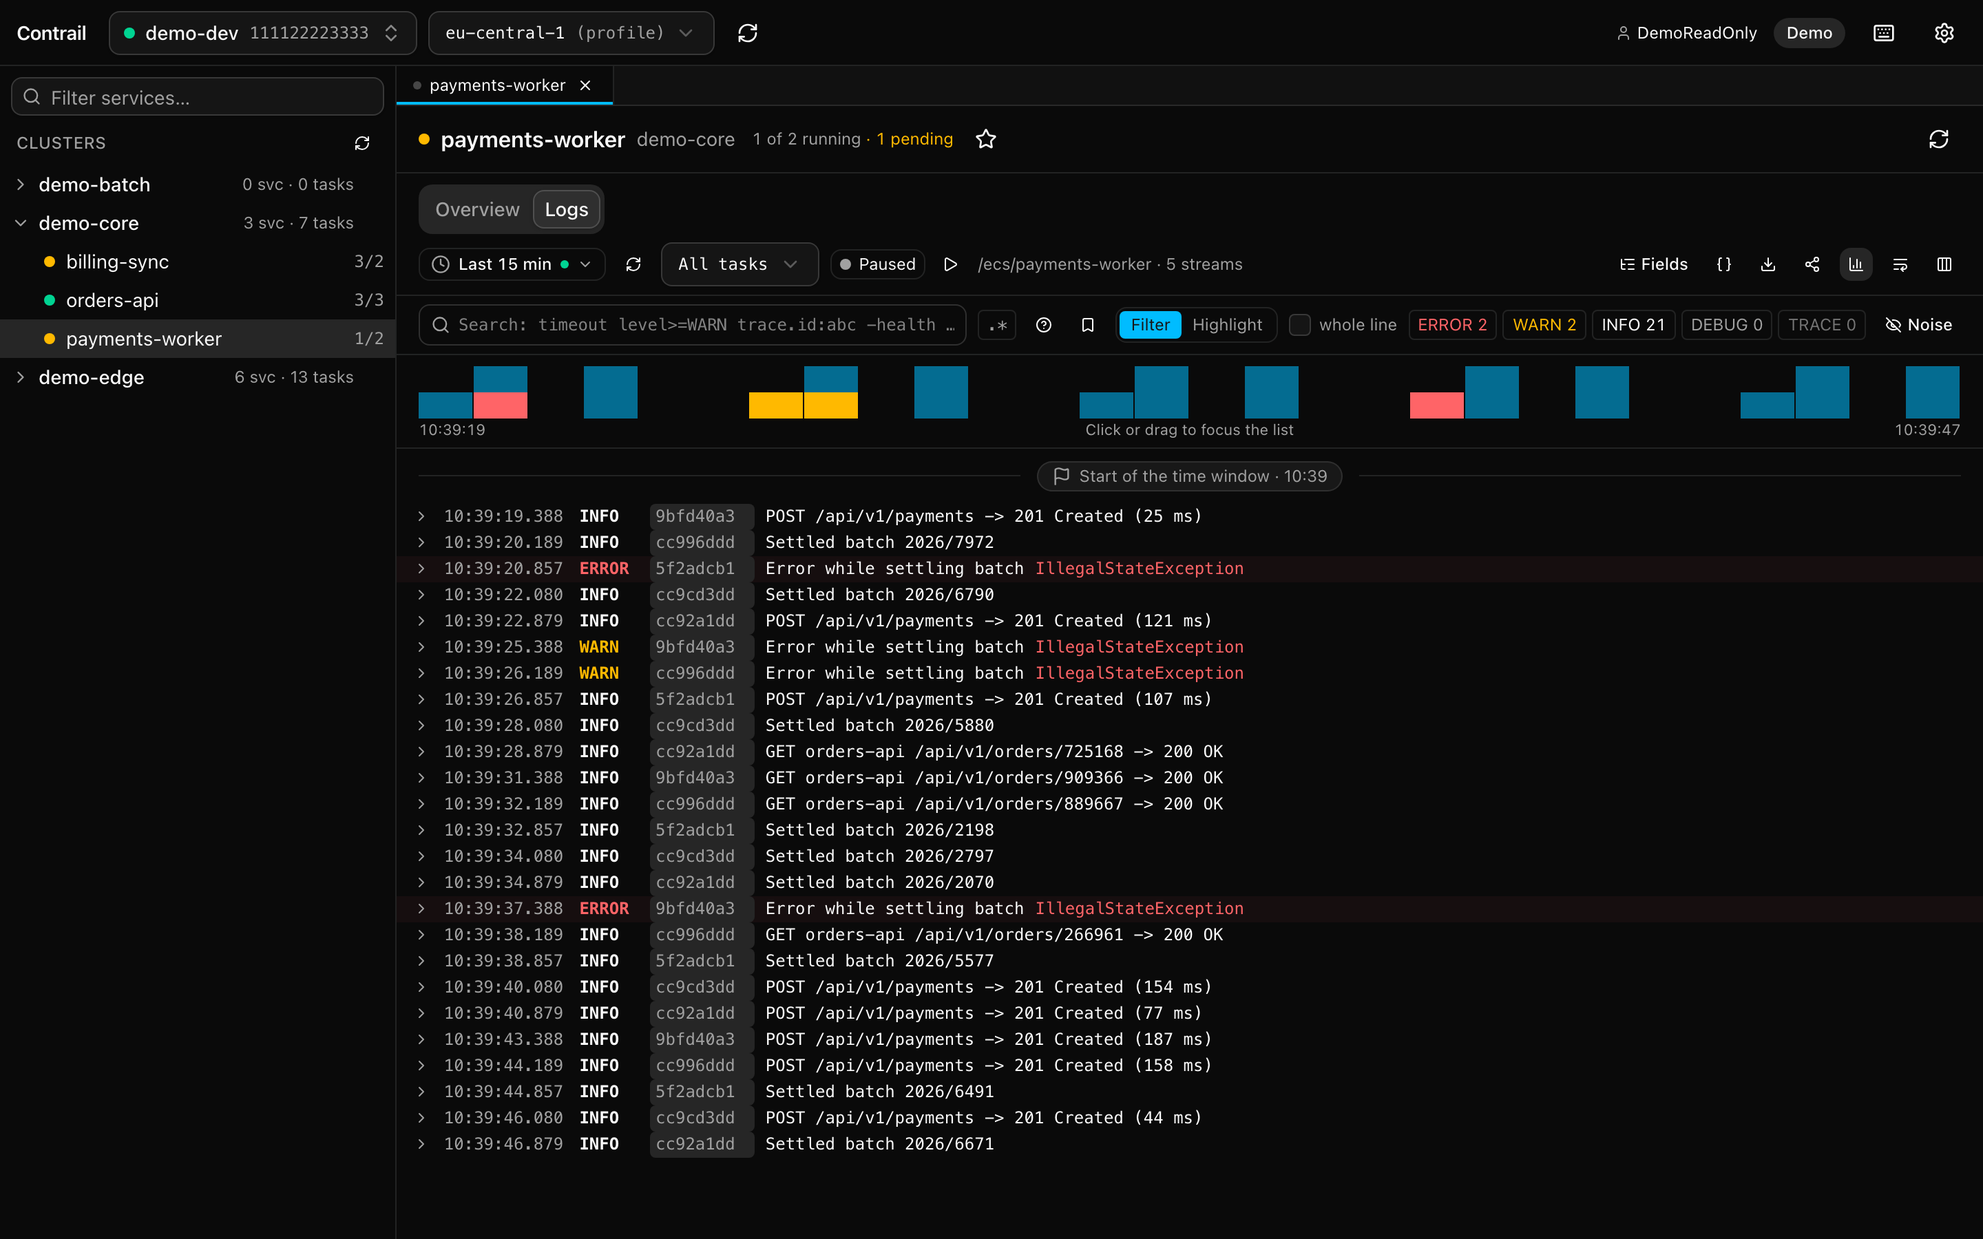
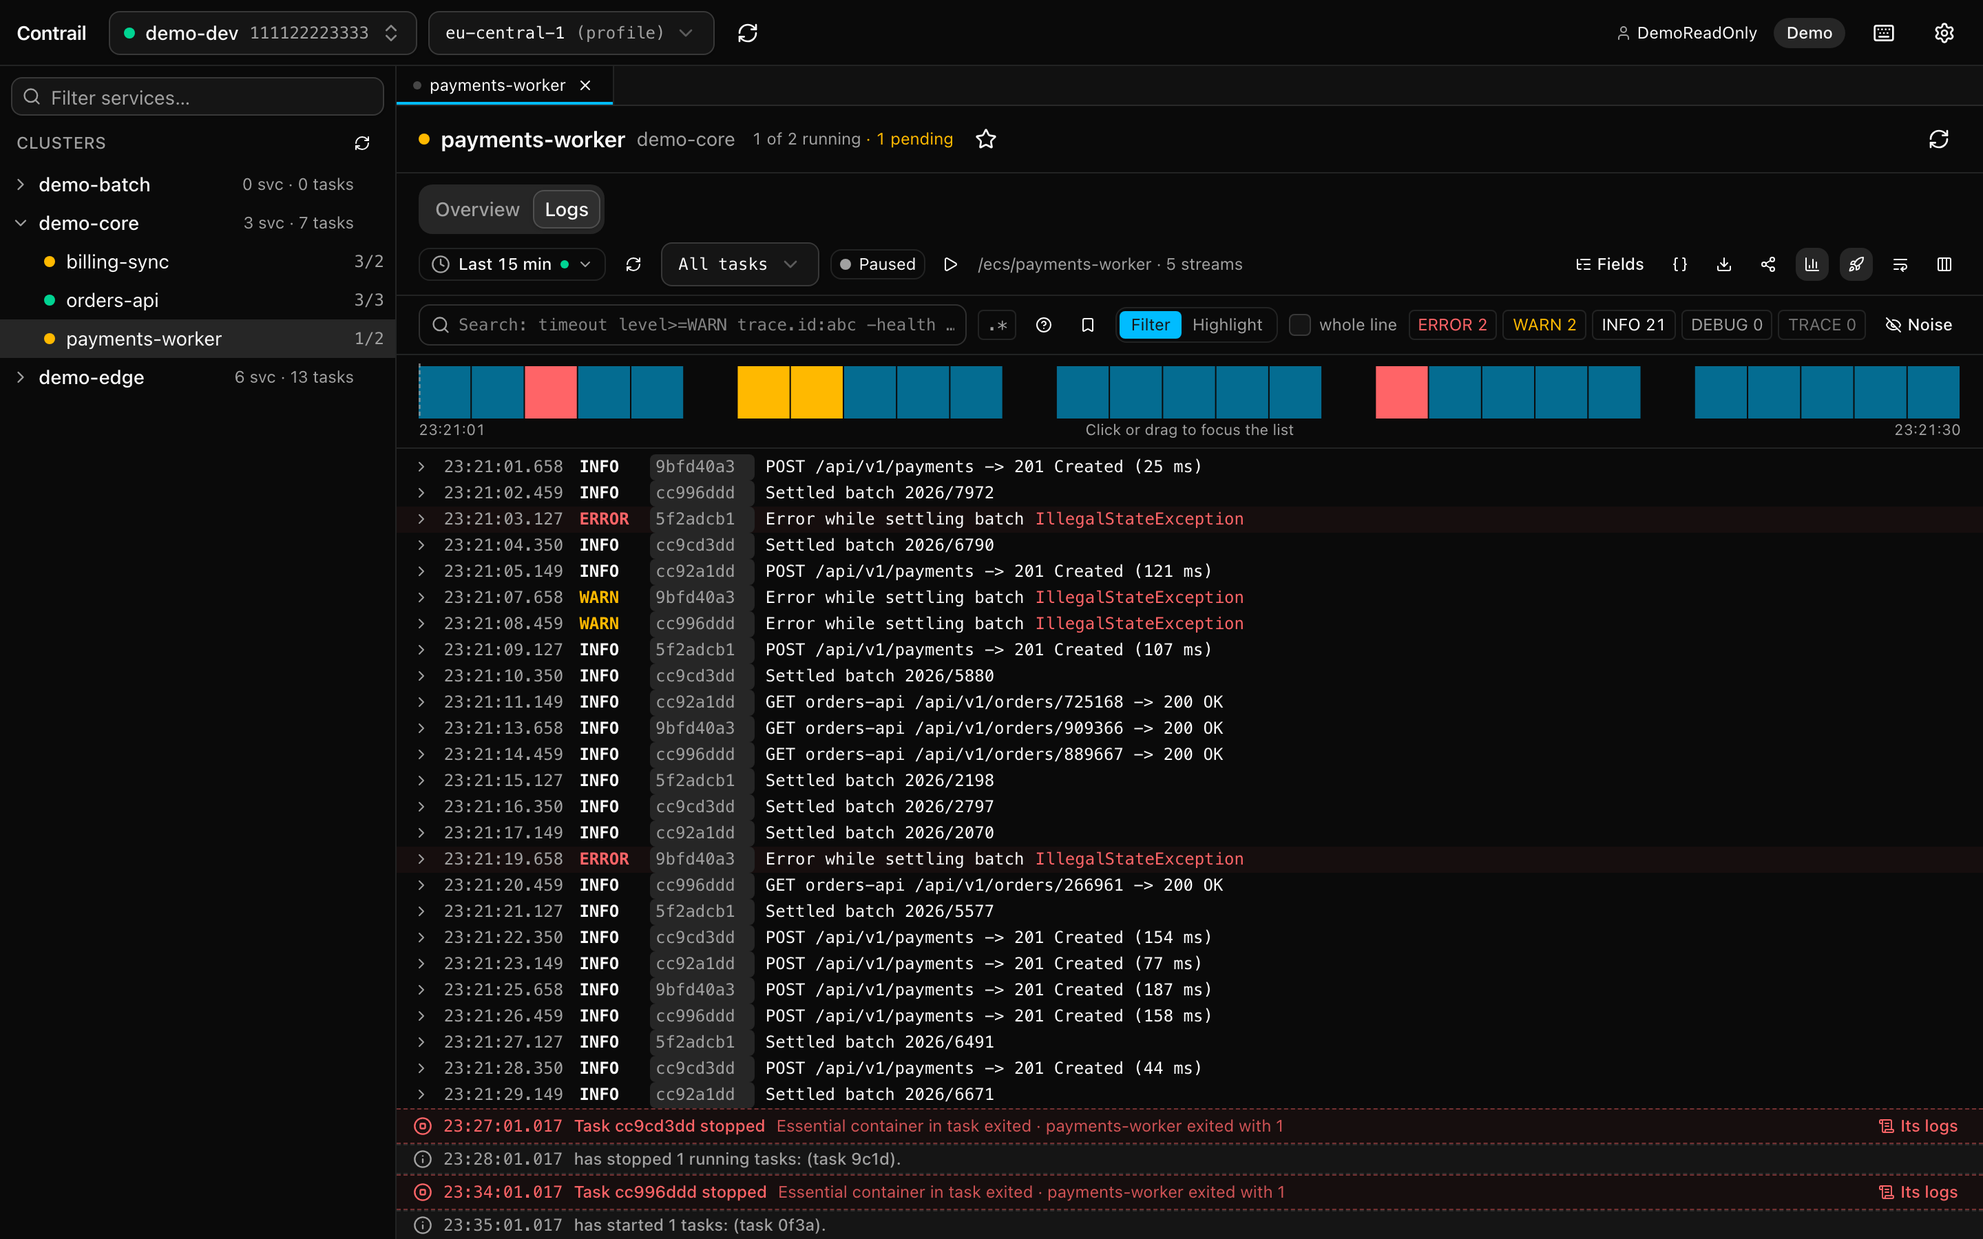
feat(logs): show deployments, stopped tasks and service events between the lines
M17: from the overview's data (no extra AWS calls), as lines between the
log lines at their time and on the timeline. A stopped task's line shows
its reason and exit codes and opens its logs; steady-state events are
left out; a toolbar toggle (a saved setting) hides them. Site screenshots
refreshed.

diff --git a/app/ui/src/components/logs/TimelineChart.tsx b/app/ui/src/components/logs/TimelineChart.tsx
@@ -8,6 +8,8 @@ import {
   utcOffsetMinutes,
 } from "@/lib/timeline";
 import { Skeleton } from "@/components/ui/skeleton";
+import { useServiceMarkers } from "./useServiceMarkers";
+import { markersBetween } from "@/lib/markers";
 import { useLogs } from "@/stores/logs";
 import { usePrefs } from "@/stores/prefs";
 
@@ -41,6 +43,7 @@ export function TimelineChart({ viewId }: { viewId: number }) {
   const revision = useLogs((s) => s.searchRevision);
   const focus = useLogs((s) => s.focus);
   const setFocus = useLogs((s) => s.setFocus);
+  const markers = useServiceMarkers();
   const timeZone = usePrefs((s) => s.prefs.settings.timeZone);
   const box = useRef<HTMLDivElement>(null);
   const [width, setWidth] = useState(0);
@@ -89,6 +92,21 @@ export function TimelineChart({ viewId }: { viewId: number }) {
   const spansDays = timeline ? count * timeline.bucketMs >= 86_400_000 : false;
   const hovered = hover !== null && timeline ? timeline.buckets[hover] : undefined;
   const focused = focus && timeline && count > 0 ? rangePixels(timeline, focus, width) : null;
+  // Where the chart starts and ends, for the markers' positions.
+  const [start, end] =
+    timeline && count > 0
+      ? [bucketRange(timeline, 0)[0], bucketRange(timeline, count - 1)[1]]
+      : [0, 0];
+  const shownMarkers = end > start ? markersBetween(markers, start - 1, end) : [];
+  const markerX = (at: number) => ((at - start) / (end - start)) * width;
+  const hoveredMarkers =
+    hover !== null && timeline
+      ? markersBetween(
+          shownMarkers,
+          bucketRange(timeline, hover)[0] - 1,
+          bucketRange(timeline, hover)[1],
+        )
+      : [];
   const outsideFocus = (i: number) =>
     focused !== null &&
     ((i + 1) * barWidth <= focused.left || i * barWidth >= focused.left + focused.width);
@@ -151,6 +169,24 @@ export function TimelineChart({ viewId }: { viewId: number }) {
               </g>
             );
           })}
+          {shownMarkers.map((m) => (
+            <line
+              key={`${m.kind}-${m.at}-${m.title}`}
+              x1={markerX(m.at)}
+              x2={markerX(m.at)}
+              y1={0}
+              y2={BARS_HEIGHT}
+              strokeWidth={1.5}
+              strokeDasharray="3 2"
+              className={
+                m.failed
+                  ? "stroke-destructive"
+                  : m.kind === "deployment"
+                    ? "stroke-primary"
+                    : "stroke-muted-foreground/70"
+              }
+            />
+          ))}
         </svg>
         {focused && !drag && (
           <div
@@ -183,6 +219,14 @@ export function TimelineChart({ viewId }: { viewId: number }) {
             {STACK.filter(({ key }) => hovered[key] > 0).map(({ key, label }) => (
               <p key={key} className="tabular-nums">
                 {label} {hovered[key].toLocaleString()}
+              </p>
+            ))}
+            {hoveredMarkers.map((m) => (
+              <p
+                key={`${m.kind}-${m.at}-${m.title}`}
+                className={m.failed ? "text-destructive" : "text-primary"}
+              >
+                {m.title}
               </p>
             ))}
           </div>

diff --git a/app/ui/src/components/logs/LogList.tsx b/app/ui/src/components/logs/LogList.tsx
@@ -4,10 +4,13 @@ import { ArrowDownToLineIcon, ArrowUpToLineIcon } from "lucide-react";
 import { cn } from "cn";
 import { Button } from "@/components/ui/button";
 import { isToday } from "@/lib/logs";
+import { markersBetween } from "@/lib/markers";
 import { cachedIndexOf, PAGE_SIZE, type ScrollAnchor, useLogs } from "@/stores/logs";
 import { usePrefs } from "@/stores/prefs";
 import { gridTemplate, useLogColumns } from "./columns";
 import { LogRow } from "./LogRow";
+import { MarkerBanner } from "./MarkerBanner";
+import { useServiceMarkers } from "./useServiceMarkers";
 import { OLDER_MARKER_HEIGHT, OlderMarker } from "./OlderMarker";
 
 /** Rows fetched beyond the visible ones in each direction, so scrolling finds them loaded. */
@@ -45,6 +48,10 @@ export function LogList({
   const timeZone = usePrefs((s) => s.prefs.settings.timeZone);
   // Where the listed events start: the focus, or as far back as events are loaded.
   const from = useLogs((s) => s.focus?.start ?? s.view?.loadedFrom ?? null);
+  // Where they end: the focus, or the window's end. (A service event after it shows up between
+  // the lines once a newer line arrives.)
+  const until = useLogs((s) => s.focus?.end ?? s.view?.to ?? null);
+  const markers = useServiceMarkers();
   const pages = useLogs((s) => s.pages);
   const scrollTarget = useLogs((s) => s.scrollTarget);
   const prepended = useLogs((s) => s.prepended);
@@ -219,6 +226,16 @@ export function LogList({
           {items.map((item) => {
             const index = toData(item.index);
             const event = row(index);
+            // The service's markers between this event and the one before it (oldest first),
+            // and after the newest one.
+            const previous = index === 0 ? from : row(index - 1)?.timestamp;
+            const at = event && Date.parse(event.timestamp);
+            const before = at && previous ? markersBetween(markers, Date.parse(previous), at) : [];
+            const after =
+              at && index === total - 1
+                ? markersBetween(markers, at, until ? Date.parse(until) : Infinity)
+                : [];
+            const [above, below] = newestFirst ? [after, before] : [before, after];
             return (
               <div
                 key={item.key}
@@ -235,6 +252,7 @@ export function LogList({
                   transform: `translateY(${item.start - virtualizer.options.scrollMargin}px)`,
                 }}
               >
+                <MarkerBanner markers={above} />
                 {event ? (
                   <LogRow
                     event={event}
@@ -247,6 +265,7 @@ export function LogList({
                 ) : (
                   <div className="px-3 text-muted-foreground/50">…</div>
                 )}
+                <MarkerBanner markers={below} />
               </div>
             );
           })}

diff --git a/app/ui/src/components/logs/MarkerBanner.tsx b/app/ui/src/components/logs/MarkerBanner.tsx
@@ -1,0 +1,60 @@
+import { CircleStopIcon, InfoIcon, RocketIcon, ScrollTextIcon } from "lucide-react";
+import { cn } from "cn";
+import { Button } from "@/components/ui/button";
+import { formatLogTime } from "@/lib/logs";
+import type { ServiceMarker } from "@/lib/markers";
+import { useLogs } from "@/stores/logs";
+import { usePrefs } from "@/stores/prefs";
+
+const ICON = { deployment: RocketIcon, task: CircleStopIcon, event: InfoIcon } as const;
+
+/**
+ * What happened to the service between two log lines (a deployment, a stopped task, a service
+ * event), as thin lines across the list. A stopped task's line shows that task's logs on request.
+ */
+export function MarkerBanner({ markers }: { markers: ServiceMarker[] }) {
+  const timeZone = usePrefs((s) => s.prefs.settings.timeZone);
+  const service = useLogs((s) => s.service);
+  const showTask = useLogs((s) => s.showTask);
+  if (markers.length === 0) return null;
+  return (
+    // A group of notes, not a list: inside the log list, items would read as more log rows.
+    <div role="group" aria-label="Service events" className="font-sans text-xs">
+      {markers.map((m) => {
+        const Icon = ICON[m.kind];
+        return (
+          <div
+            role="note"
+            key={`${m.kind}-${m.at}-${m.title}`}
+            className={cn(
+              "flex items-center gap-2 border-y border-dashed px-3 py-0.5",
+              m.failed
+                ? "border-destructive/40 bg-destructive/5 text-destructive"
+                : m.kind === "deployment"
+                  ? "border-primary/40 bg-primary/5 text-primary"
+                  : "border-border bg-muted/40 text-muted-foreground",
+            )}
+          >
+            <Icon className="size-3.5 shrink-0" />
+            <span className="font-mono tabular-nums">
+              {formatLogTime(new Date(m.at).toISOString(), timeZone)}
+            </span>
+            <span className="font-medium">{m.title}</span>
+            {m.detail && <span className="min-w-0 truncate opacity-80">{m.detail}</span>}
+            {m.taskId && service && (
+              <Button
+                variant="ghost"
+                size="xs"
+                className="ml-auto h-5"
+                tooltip="Show only this task's logs"
+                onClick={() => m.taskId && showTask(service, m.taskId)}
+              >
+                <ScrollTextIcon /> Its logs
+              </Button>
+            )}
+          </div>
+        );
+      })}
+    </div>
+  );
+}

diff --git a/app/ui/e2e/logs.e2e.ts b/app/ui/e2e/logs.e2e.ts
@@ -88,9 +88,10 @@ test("long messages wrap with W or the toolbar button", async ({ page }) => {
   await page.setViewportSize({ width: 900, height: 700 });
   const list = await openLogs(page, "demo-core", "payments-worker");
   await expect(list.getByRole("listitem").first()).toBeVisible();
+  // The rows themselves (a row can carry a service event's line too).
   const tallest = () =>
     list
-      .getByRole("listitem")
+      .locator("button[aria-expanded]")
       .evaluateAll((rows) => Math.max(...rows.map((r) => r.getBoundingClientRect().height)));
   const oneLine = await tallest();
 
@@ -465,6 +466,25 @@ test("surrounding lines: the lines of the same task around an expanded line", as
   await dialog.getByRole("button", { name: "Earlier lines" }).click();
   await expect(lines.getByRole("listitem")).toHaveCount(51);
   await expect(lines).toContainText(`Ingested event #${100000 - 6 * 50} `);
+});
+
+test("deployments, stopped tasks and service events show between the lines", async ({ page }) => {
+  await openLogs(page, "demo-core", "payments-worker");
+  const stopped = page
+    .getByRole("group", { name: "Service events" })
+    .getByRole("note")
+    .filter({ hasText: "Task cc996ddd stopped" });
+  await expect(stopped).toContainText("payments-worker exited with 1");
+  // "Steady state" events are left out.
+  await expect(page.getByRole("list", { name: "Log events" })).not.toContainText("steady state");
+
+  // A stopped task's line shows its logs.
+  await stopped.getByRole("button", { name: "Its logs" }).click();
+  await expect(page.getByText("/ecs/payments-worker · 1 stream")).toBeVisible();
+
+  // The toolbar switches them off (and on again).
+  await page.getByRole("button", { name: "Service events" }).click();
+  await expect(page.getByRole("group", { name: "Service events" })).toHaveCount(0);
 });
 
 test("while logs load, placeholders in the shape of the list show", async ({ page }) => {

diff --git a/app/ui/src/components/logs/LogViewer.tsx b/app/ui/src/components/logs/LogViewer.tsx
@@ -8,6 +8,7 @@ import {
   PlayIcon,
   ChartColumnIcon,
   RefreshCwIcon,
+  RocketIcon,
   WrapTextIcon,
   XIcon,
 } from "lucide-react";
@@ -283,10 +284,28 @@ function TimelineToggle() {
       size="icon-xs"
       aria-label="Timeline"
       aria-pressed={shown}
-      tooltip="Events over time, by level; drag across it to zoom in"
+      tooltip="Events over time, by level; click or drag across it to focus the list"
       onClick={() => void updateSettings({ showTimeline: !shown })}
     >
       <ChartColumnIcon />
+    </Button>
+  );
+}
+
+/** Shows or hides the service's deployments, stopped tasks and events in the list and timeline. */
+function MarkersToggle() {
+  const shown = usePrefs((s) => s.prefs.settings.showMarkers);
+  const updateSettings = usePrefs((s) => s.updateSettings);
+  return (
+    <Button
+      variant={shown ? "secondary" : "ghost"}
+      size="icon-xs"
+      aria-label="Service events"
+      aria-pressed={shown}
+      tooltip="Deployments, stopped tasks and service events between the lines and on the timeline"
+      onClick={() => void updateSettings({ showMarkers: !shown })}
+    >
+      <RocketIcon />
     </Button>
   );
 }
@@ -398,6 +417,7 @@ export function LogViewer() {
         <ExportMenu />
         <ShareMenu />
         <TimelineToggle />
+        <MarkersToggle />
         <WrapToggle />
         <DropdownMenu>
           <DropdownMenuTrigger asChild>

diff --git a/app/ui/src/components/logs/useServiceMarkers.ts b/app/ui/src/components/logs/useServiceMarkers.ts
@@ -1,0 +1,20 @@
+import { useMemo } from "react";
+import { serviceMarkers, type ServiceMarker } from "@/lib/markers";
+import { useEcs } from "@/stores/ecs";
+import { usePrefs } from "@/stores/prefs";
+
+const NONE: ServiceMarker[] = [];
+
+/**
+ * The open service's deployments, stopped tasks and events as markers for its log view (none
+ * when they are switched off). They come from the service's overview data: no extra AWS call.
+ */
+export function useServiceMarkers(): ServiceMarker[] {
+  const shown = usePrefs((s) => s.prefs.settings.showMarkers);
+  const detail = useEcs((s) => ("data" in s.detail ? (s.detail.data ?? null) : null));
+  const tasks = useEcs((s) => ("data" in s.tasks ? (s.tasks.data ?? null) : null));
+  return useMemo(
+    () => (shown ? serviceMarkers(detail, tasks ?? []) : NONE),
+    [shown, detail, tasks],
+  );
+}

diff --git a/app/ui/e2e/day-in-the-life.e2e.ts b/app/ui/e2e/day-in-the-life.e2e.ts
@@ -65,9 +65,10 @@ test("a day in the life", async ({ page }) => {
   // the clicks below.
   await search.press("Enter");
   // Applied once every row on screen is one of them (the count may still show the previous search).
-  await expect(list.getByRole("button", { name: /^(?!.*Error while settling batch)/ })).toHaveCount(
-    0,
-  );
+  // (Rows, not the buttons on service event lines.)
+  await expect(
+    list.getByRole("button", { name: /^(?!.*Error while settling batch)/, expanded: false }),
+  ).toHaveCount(0);
   await list.getByText("Error while settling batch", { exact: true }).first().click();
   await list.getByRole("button", { name: "Hide lines like this" }).click();
   await expect(payments.getByText("No events match the search.")).toBeVisible();

diff --git a/app/ui/src/bindings.ts b/app/ui/src/bindings.ts
@@ -957,6 +957,11 @@ export type Settings = {
 	wrapLines: boolean,
 	/**  The timeline (events over time, by level) is shown above log lists. */
 	showTimeline: boolean,
+	/**
+	 *  Deployments, stopped tasks and service events are marked between the log lines and on
+	 *  the timeline.
+	 */
+	showMarkers: boolean,
 	/**  Log in to SSO with Contrail's own login (device flow) even when the AWS CLI is installed. */
 	builtinLogin: boolean,
 	/**  Look for a new Contrail version on start (at most once a day). */

diff --git a/app/ui/src/e2e/fakeBackend.ts b/app/ui/src/e2e/fakeBackend.ts
@@ -250,6 +250,7 @@ export function createFakeBackend(options: FakeBackendOptions = {}) {
       newestFirst: false,
       wrapLines: false,
       showTimeline: true,
+      showMarkers: true,
       builtinLogin: false,
       checkForUpdates: true,
     },

diff --git a/app/ui/src/stores/prefs.ts b/app/ui/src/stores/prefs.ts
@@ -52,6 +52,7 @@ export const DEFAULT_SETTINGS: Settings = {
   newestFirst: false,
   wrapLines: false,
   showTimeline: true,
+  showMarkers: true,
   builtinLogin: false,
   checkForUpdates: true,
 };

diff --git a/crates/contrail-core/src/prefs.rs b/crates/contrail-core/src/prefs.rs
@@ -140,6 +140,9 @@ pub struct Settings {
     pub wrap_lines: bool,
     /// The timeline (events over time, by level) is shown above log lists.
     pub show_timeline: bool,
+    /// Deployments, stopped tasks and service events are marked between the log lines and on
+    /// the timeline.
+    pub show_markers: bool,
     /// Log in to SSO with Contrail's own login (device flow) even when the AWS CLI is installed.
     pub builtin_login: bool,
     /// Look for a new Contrail version on start (at most once a day).
@@ -163,6 +166,7 @@ impl Default for Settings {
             newest_first: false,
             wrap_lines: false,
             show_timeline: true,
+            show_markers: true,
             builtin_login: false,
             check_for_updates: true,
         }
@@ -199,6 +203,7 @@ impl Settings {
         read(value, "newestFirst", &mut settings.newest_first);
         read(value, "wrapLines", &mut settings.wrap_lines);
         read(value, "showTimeline", &mut settings.show_timeline);
+        read(value, "showMarkers", &mut settings.show_markers);
         read(value, "builtinLogin", &mut settings.builtin_login);
         read(value, "checkForUpdates", &mut settings.check_for_updates);
         settings
@@ -674,6 +679,7 @@ mod tests {
             .settings;
         assert!(!settings.wrap_lines);
         assert!(settings.show_timeline, "on unless switched off");
+        assert!(settings.show_markers, "on unless switched off");
         assert!(settings.newest_first);
         let json = r#"{"settings":{"wrapLines":true}}"#;
         assert!(Prefs::from_json(json).unwrap().settings.wrap_lines);
@@ -770,7 +776,7 @@ mod tests {
         assert_eq!(settings.time_zone, TimeZone::Local);
         assert_eq!(
             serde_json::to_string(&settings).unwrap(),
-            r#"{"colorMode":"dark","accent":"sky","timeZone":"local","backfillMinutes":15,"uiScale":100,"logFontSize":12,"pauseWhenHidden":true,"autoPauseMinutes":10,"bufferSize":100000,"logColumns":[],"newestFirst":false,"wrapLines":false,"showTimeline":true,"builtinLogin":false,"checkForUpdates":true}"#
+            r#"{"colorMode":"dark","accent":"sky","timeZone":"local","backfillMinutes":15,"uiScale":100,"logFontSize":12,"pauseWhenHidden":true,"autoPauseMinutes":10,"bufferSize":100000,"logColumns":[],"newestFirst":false,"wrapLines":false,"showTimeline":true,"showMarkers":true,"builtinLogin":false,"checkForUpdates":true}"#
         );
     }
 

diff --git a/docs/user-guide.md b/docs/user-guide.md
@@ -50,6 +50,11 @@ page has the details.
   following the search. Hover a bar for its time and counts; click a bar, or drag across bars, to focus the list on
   that part of the window. The time window and the loaded events stay as they are: the chip next to the time window
   shows the focus, and its × brings back the whole window instantly.
+- **Service events** (the rocket button in the toolbar hides them): deployments starting and finishing, stopped
+  tasks with their stop reason and exit codes, and the service's events ("has started 1 tasks", placement
+  problems; not the "steady state" ones) show as lines between the log lines at the time they happened, and on
+  the timeline (hover a bar to read them). A stopped task's line has **Its logs** to show only that task. They
+  come from the service's overview, without extra AWS calls.
 - **Time window:** click it in the toolbar (or press **T**) and type what you want: `15m`, `3h`, `2d`, `1w`, `1h30m`,
   `today`, `since 14:00`, `yesterday`, `oct 20`, `9:00-11:30` or `yesterday 9-11`. The picker shows what it understood
   before you press Enter, and whether the window will follow live, open paused or be a fixed range. Quick windows,
